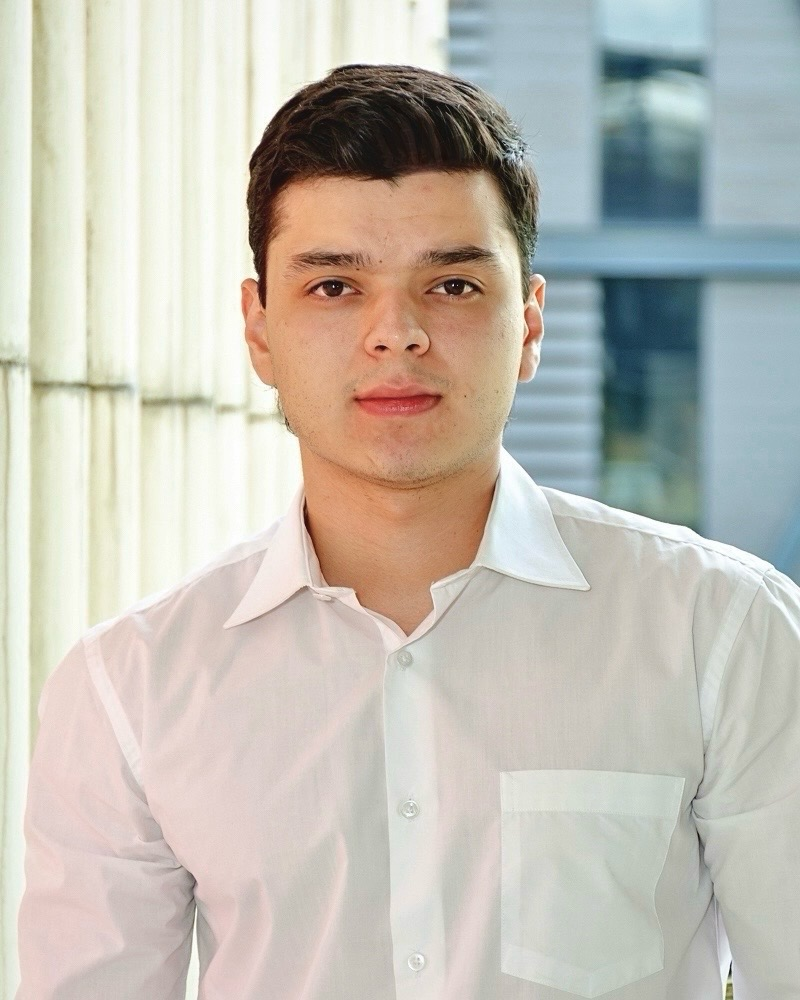
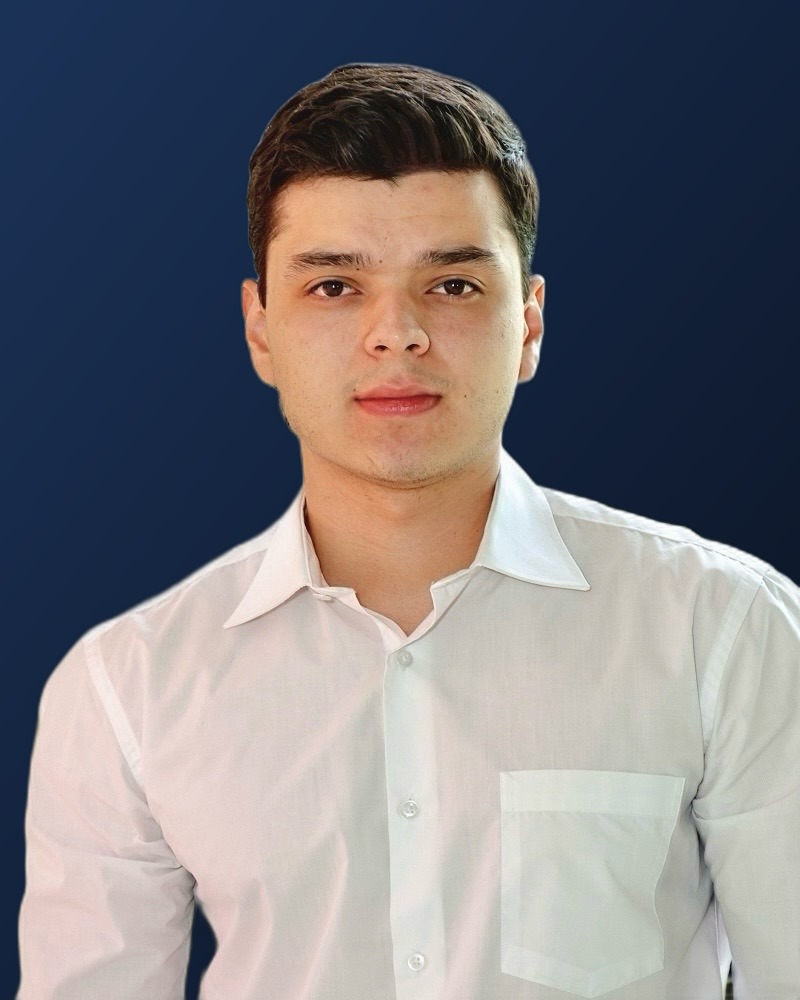
Replace hero photo frame with rectangle, blend background into navy
Remove the circular crop in favor of a plain rounded-rectangle frame
matching the photo's natural portrait ratio. Retouched the photo
background (rembg segmentation + composite onto the site's navy
gradient) so it blends into the hero — the subject himself is
untouched, only the background pixels changed.

diff --git a/src/components/Hero.tsx b/src/components/Hero.tsx
@@ -106,20 +106,17 @@ export function Hero() {
           initial={{ opacity: 0, scale: 0.92 }}
           animate={{ opacity: 1, scale: 1 }}
           transition={{ duration: 0.9, ease: [0.22, 1, 0.36, 1], delay: 0.3 }}
-          className="mx-auto w-full max-w-[440px] lg:max-w-[540px]"
+          className="mx-auto w-full max-w-[420px] lg:max-w-[480px]"
         >
-          <div className="relative aspect-square w-full rounded-full border border-gold/30 bg-gradient-to-br from-navy-soft to-ink p-2">
-            <div className="relative h-full w-full overflow-hidden rounded-full">
-              <Image
-                src="/juan-sebastian-bedoya.jpg"
-                alt="Juan Sebastián Bedoya Castrillón"
-                fill
-                sizes="(min-width: 1024px) 540px, 440px"
-                className="object-cover"
-                priority
-              />
-            </div>
-            <div className="pointer-events-none absolute inset-2 rounded-full border border-gold/20" />
+          <div className="relative aspect-[4/5] w-full overflow-hidden rounded-2xl border border-gold/30 shadow-[0_30px_80px_-30px_rgba(0,0,0,0.6)]">
+            <Image
+              src="/juan-sebastian-bedoya.jpg"
+              alt="Juan Sebastián Bedoya Castrillón"
+              fill
+              sizes="(min-width: 1024px) 480px, 420px"
+              className="object-cover"
+              priority
+            />
           </div>
         </motion.div>
       </div>
